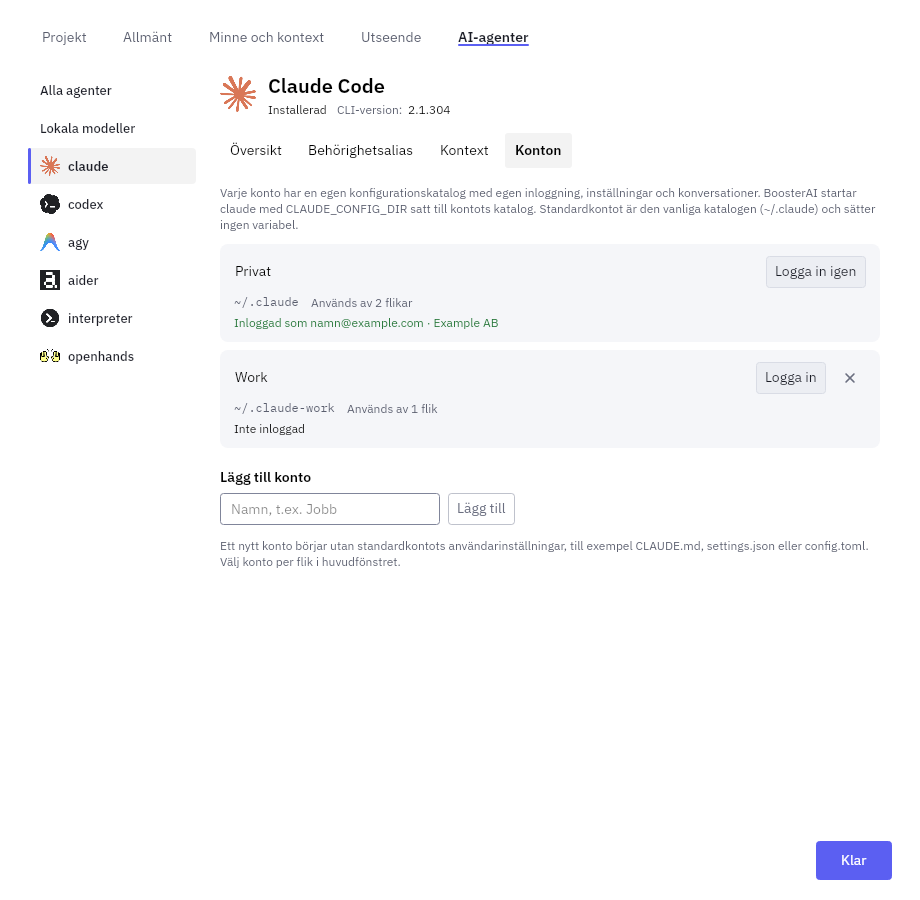
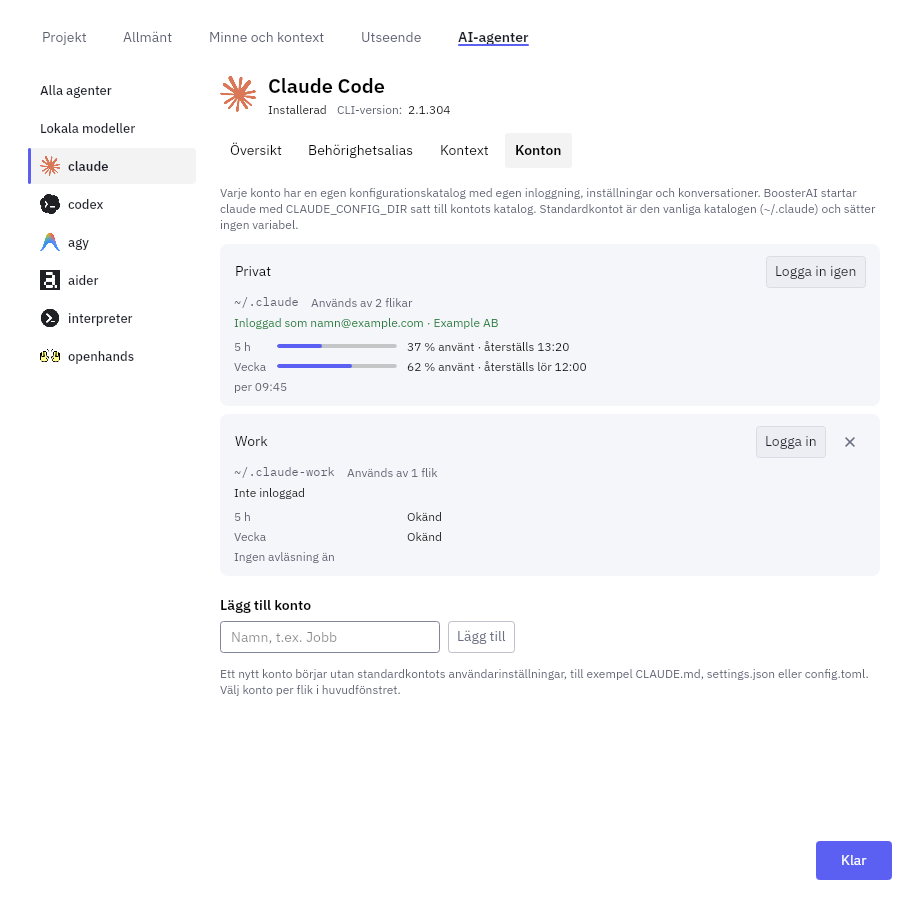
Show plan limits in the README accounts image and add verification screenshots for #199

diff --git a/docs/index.html b/docs/index.html
@@ -1017,7 +1017,7 @@
         else if (mode === 'memory') img.src = 'settings-ram.png?v=20261124-195';
         else if (mode === 'wsl') img.src = 'settings-wsl.png?v=20261124-195';
         else if (mode === 'compact') img.src = 'settings-compact.png?v=20261124-195';
-        else if (mode === 'accounts') img.src = 'settings-accounts.png?v=20261124-195';
+        else if (mode === 'accounts') img.src = 'settings-accounts.png?v=20261125-199';
         img.onload = () => { img.style.opacity = '1'; };
         // Fallback in case image is already cached
         setTimeout(() => { img.style.opacity = '1'; }, 100);
